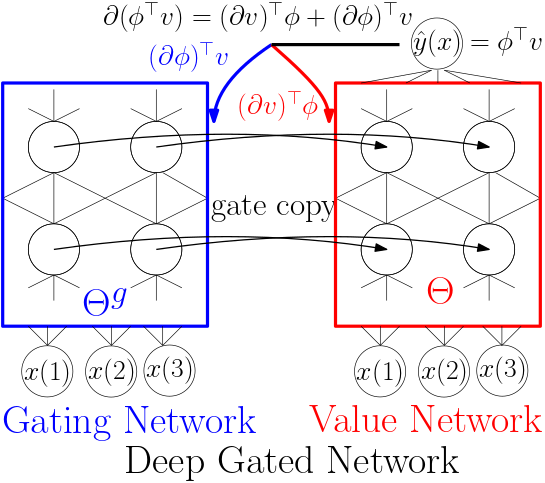
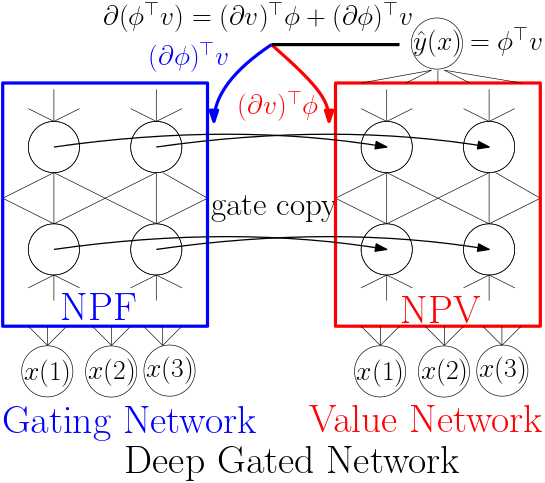
latest

Changed region(s): [[0.7486, 0.559, 0.8734, 0.6832], [0.1248, 0.5901, 0.2495, 0.6832]]

diff --git a/pathgate.tex b/pathgate.tex
@@ -1,5 +1,44 @@
-\section{Deep Gated Networks (DGN): Information Flow}\label{sec:pathgate}
-In what follows, we denote the dataset by $(x_s,y_s)_{s=1}^n\in\R^{d_{in}}\times \R$. A DGN is given by:
+\section{Path-View}\label{sec:pathgate}
+\textbf{Notation:} We consider fully connected deep networks with $d$ layers, and $w$ hidden units per layer, which accepts an input $x\in\R^{d_{in}}$, and produces an output $\hat{y}_{t}\in \R$. We denote by $\Theta(l,i,j)$ to be the weight connecting the $i^{th}$ hidden unit of layer $l-1$ to the $j^{th}$ hidden unit of layer $l$, and we use $G_{x,t}(l,i)$ be the gating value ($0/1$) of the $i^{th}$ hidden unit in layer $l$ for an input $x\in \R^{d_{in}}$.\\
+\textbf{Paths:}  We have a total of $P=d_{in}w^{(d-1)}$ paths. Let us say that an enumeration of the paths is given by $[P]=\{1,\ldots,P\}$. Let $\I_{l}\colon [P]\ra [w],l=0,\ldots,d-1$ provide the index of the hidden unit through which a path $p$ passes in layer $l$ (with the convention that $\I_d(p)=1,\forall p\in [P]$). The activity of a path $p$ for an input $x\in \R^{d_{in}}$ by $A_{t}(x,p)\stackrel{def}{=}\Pi_{l=1}^{d-1} G_{x,t}(l,\I_l(p))$.\\
+\textbf{Neural Path Feature (NPF)} of an input example $x\in \R^{d_{in}}$ is given by \begin{align}\label{eq:npf}\phi_{x,t}=(x_s(\I_0(p))A_t(x_s,p) ,p\in[P])\in\R^P,\end{align} where, for a path $p$, $\I_0(p)$ is the input node at which the path starts, and $A_t(x_s,p)$ is its activity. %By arranging the NPF of the $n$ input examples in a matrix $\Phi_t=(\phi_{x_s,\G_t},s\in[n])\in\R^{P\times n}$, we can express 
+\textbf{Neural Path Value (NPF)} is given by \begin{align}\label{eq:nfv}v_{t}=(\Pi_{l=1}^d \Theta_t(l,\I_{l-1}(p),\I_l(p)),p\in[P])\in\R^P\end{align}
+The zeroth and first-order terms of a DNN can be written as:
+\begin{align}
+\label{eq:zero}\text{(Zeroth-Order)}\quad: \quad \hat{y}_t(x)&=\ip{\phi_{x,t},v_t}=\sum_{p\in [P]}x(\I(p))A_t(x,p)v_t(p)\\
+\label{eq:first}\text{(First-Order)}\quad: \quad \partial \hat{y}_t(x)&=\underbrace{\ip{\phi_{x,t},\partial v_t}}_{\text{value gradient}}+ \underbrace{\ip{\partial\phi_{x,t},v_t}}_{\text{feature gradient}}\\&=\sum_{p\in [P]}x(\I(p)) A_t(x,p) \partial(v_t(p))+\sum_{p\in [P]}x(\I(p)) \partial(A_t(x,p)) v_t(p)\nn
+\end{align}
+\subsection{Information Flow: Zeroth-Order}
+$1.$ \textbf{Representational Power:} The ability of DNNs to fit data has been demonstrated in the past. \cite{ben} showed that DNNs can fit even random labels, and random pixels of standard datasets such as MNIST. However, we note that, for standard DNNs with ReLU gates, with no bias parameters, a dataset with $n=2$ points namely $(x,1)$ and $(2x,-1)$ for some $x\in \R^{d_{in}}$ cannot be memorised. The reason is that the gating values are the same for both $x$ and $2x$ (for that matter any positive scaling of $x$), and hence $\phi_{2x,\G_t }= 2\phi_{x,\G_t }$, and thus it not possible to fit arbitrary values for $\hat{y}_t(x)$ and $\hat{y}_t(2x)$.\\
+$2.$ \textbf{Translation Invariance:} Consider a convolution network using $l$ layers of circular convolutions\footnote{Here, instead of zero-padding in the corners, we follow the convention that index $d_{in}+k$ will be interpreted as $k$, for $k>0$, and $-k$ will be interpreted as $d_{in}-k$.} with filter size $k'<d_{in}$ and unit stride, and let $x^l(i)$ be the output of the $i^{th}$ channel after either $\max$-/global-average-pooling. Looking at the third and fourth (from left) illustrations in \Cref{fig:cartoon}, it is easy to check the translation invariance property: each of the red, blue, green lines have the same path values due to weight sharing in the convolutional layers, this leads to a circular symmetry in the path values, due to which, a translation in the input will cause all the internal variable to translate, and final invariance results from the invariance of the $\max$/average operation.\\
+$3.$ \textbf{Active Sub-Network:} At any time $t$, for each input example, a set of gates are \emph{on} in each layer, and this gives rise to the sub-network of active paths for that input. Thus the active sub-network can be said to hold the memory for a given input. It easy to check that the \emph{neural path kernel} NPK associated with the NPF satisfies the property $H_t=\Sigma\odot \lambda_t$, where $\Sigma$ is the $n\times n$ input Gram matrix, $\odot$ is the \emph{Hadamard} product, and $\lambda_t(s,s')\stackrel{def}{=}\sum_{p\rsa i} A_t(x_s,p) A_t(x_{s'},p)$ is the overlap of the sub-networks that are active for both input examples $s,s'\in[n]$.
+\begin{figure*}[t]
+%\begin{minipage}{0.78\columnwidth}
+\resizebox{\columnwidth}{!}{
+\begin{tabular}{ccc}
+\includegraphics[scale=0.5]{figs/nn.png}
+\includegraphics[scale=0.5]{figs/nnsoft.png}
+\includegraphics[scale=0.5]{figs/nnconv.png}
+\includegraphics[scale=0.5]{figs/nntwin-blck.png}
+%\includegraphics[scale=0.5]{figs/nn.png}
+%\includegraphics[scale=0.5]{figs/nn.png}
+\end{tabular}
+}
+%\end{minipage}
+%\begin{minipage}{0.18\columnwidth}
+%\resizebox{\columnwidth}{!}{
+%\includegraphics[scale=0.5]{figs/nnconv.png}
+%}
+%\end{minipage}
+\caption{Cartoon illustration of usefulness of path-view and DGN framework.}
+\label{fig:cartoon}
+\end{figure*}
+\subsection{Information Flow: First-Order}
+$1.$ \textbf{Value Gradient} $\ip{\phi_{x,t},\partial v_t}$ (see \eqref{eq:zero}) flows through the active sub-network. To see this, $\ip{\phi_{x,t},\partial v_t}=\sum_{p\in[P]}x(\I_0(p))A(x,p)\partial v$, i.e., only paths $p$ with $A(x,p)=1$ contribute to the summation and the derivate $\partial v(p)$ is non-zero only for those weights through which the path $p$ passes.\\
+$2.$ \textbf{Feature Gradient and fixing the ReLU artefact:} The \emph{feature derivative} given by $\ip{\partial\phi_{x,t},v_t}=\sum_{p\in [P]}x(\I(p)) \partial(A_t(x,p)) v_t(p)$. Note that, in the case of ReLU activations the gating values are either $0$ or $1$, and hence $\partial(A_t(x,p))=0$. However, the gating values and hence the path activities $A_t(\cdot,\cdot)$ changes during training. This artefact arising due to non-differentiability can be fixed by considering a \emph{soft-ReLU} activation, where, for a pre-activation input $q\in\R$ the output is given by $q\frac{1}{1+\exp(-\beta q)}$ as opposed to $q\mathbbm{1}_{\{q>0\}}$ of the ReLU. Soft-ReLU enables us to capture the terms related to feature learning in our analysis. The difference between hard and soft gates can be seen in the first two illustrations in \Cref{fig:cartoon}, where negative/positive values lead to $0/1$ in the case of hard gating, and close to $0/1$ in the case of soft-gating.\\
+$3.$ \textbf{Sensitive Sub-Network:} At any time $t$, for each input example, the set of paths for which $\partial A(x,p)$ is significant, form the sensitive sub-network for that input. It is easy to check in a DNN with soft-ReLU, that an active path $p$ whose gating values are close to $1$ is not sensitive, because, $\partial A(x,p)$ will be close to $0$. Thus, the active sub-network and sensitive sub-network are non-overlapping, as shown in the first two illustrations of \Cref{fig:cartoon}, where the red active path is insensitive and the blue inactive path is sensitive. The active paths are responsible for holding the memory of a given input and the sensitive paths are the ones which contains gates whose gating values can go towards $1/0$ depending on flow of feature gradient. In the case, of ReLU gates, sensitive paths are those which involve gates whose pre-activation inputs are close to $0$, and are in the verge of either turning \emph{on/off} depending on gradient flow.
+\subsection{Deep Gated Network (DGN)}
+The NPFs are zeroth-order features stored solely in the gates of a DNN. In this paper, we separate out the NPFs from the NPVs. To this end, we introduce the deep gated network (DGN) framework, wherein, the output of a hidden unit is obtained as a product of its pre-activation and a gating value. A DGN has two network namely i) the gating network which holds the gating values and hence the NPF, and ii) a value network which holds the NPVs. %We denote a DNG by $\N(\Theta_t;\G(\Tg_t,\beta)$ or simply $\N(\Theta_t;\Tg_t,\beta)$
 \FloatBarrier
 \begin{table}[h]
 \begin{minipage}{0.5\columnwidth}
@@ -25,39 +64,6 @@ Gating Values& $\begin{aligned}\G_t\stackrel{def}=\{G_{x_{s},t}(l,i), \forall s\
 \end{tabular}
 }
 \end{minipage}
-\caption{Here $\Theta(l,i,j)$ denotes the weight connecting node $i$ of layer $l-1$ to node $j$ of layer $l$, and $\odot$ stands for the \emph{Hadamard} product. $q(l),z(l)$ and $G(l)$ are $w$-dimensional quantities. The left table shows the gating network, and the right table shows the value network.  At time $t$, by specifying the gating values for all the $n$ input examples as $\G_t\stackrel{def}=\{G_{x_{s},t}(l,i), \forall s\in[n],l\in[d-1],i\in[w]\}$, we can recover the outputs $\hat{y}_t(x_s)\in \R$ for all the inputs $\{x_s\}_{s=1}^n$ in the dataset. We denote a DNG by $\N(\Theta_t;\G(\Tg_t,\beta)$ or simply $\N(\Theta_t;\Tg_t,\beta)$.}
+\caption{$q(l),z(l)$ and $G(l)$ are $w$-dimensional quantities. At time $t$, by specifying the gating values for all the $n$ input examples as $\G_t\stackrel{def}=\{G_{x_{s},t}(l,i), \forall s\in[n],l\in[d-1],i\in[w]\}$, we can recover the outputs $\hat{y}_t(x_s)\in \R$ for all the inputs $\{x_s\}_{s=1}^n$ in the dataset.}
 \label{tb:dgn}
 \end{table}
-We consider fully connected deep networks with $d$ layers, and $w$ hidden units per layer. We have a total of $P=d_{in}w^{(d-1)}$ paths. Let us say that an enumeration of the paths is given by $[P]=\{1,\ldots,P\}$. Let $\I_{l}\colon [P]\ra [w],l=0,\ldots,d-1$ provide the index of the hidden unit through which a path $p$ passes in layer $l$ (with the convention that $\I_d(p)=1,\forall p\in [P]$). We can then define: i) the value of a path $p$ by $v_t(p)\stackrel{def}=\Pi_{l=1}^d \Theta_t(l,\I_{l-1}(p),\I_l(p))$ and ii) the activity of a path $p$ for an input $x_s\in \R^{d_{in}}$ by $A_{t}(x,p)\stackrel{def}{=}\Pi_{l=1}^{d-1} G_{x_s,t}(l,\I_l(p))$.\\
- The \emph{neural path feature (NPF)} of an input example $x_s\in \R^{d_{in}}$ is given by $\phi_{x_s,\G_t}=(x_s(\I_0(p))A_t(x_s,p) ,p\in[P])\in\R^P$. Here, for a path $p$, $\I_0(p)$ is the input node at which the path starts, and $A_t(x_s,p)$ is its activity. By arranging the NPF of the $n$ input examples in a matrix $\Phi_t=(\phi_{x_s,\G_t},s\in[n])\in\R^{P\times n}$, we can express the predicted output of a DGN as: 
-\begin{align}\label{eq:npfbasic}
-\hat{y}_t=\Phi_t^\top v_t,
-\end{align}
-where, the value of the path $v_t$ is the equivalent of the so called \emph{weight-vector} in a standard linear approximation. The \emph{neural path kernel} (NPK) matrix is defined as $H_t\stackrel{def}=\Phi^\top_t\Phi_t$. The information flow in a DGN has the following interesting properties.\\
-\begin{figure*}[t]
-%\begin{minipage}{0.78\columnwidth}
-\resizebox{\columnwidth}{!}{
-\begin{tabular}{ccc}
-\includegraphics[scale=0.5]{figs/nn.png}
-\includegraphics[scale=0.5]{figs/nnsoft.png}
-\includegraphics[scale=0.5]{figs/nntwin-blck.png}
-\includegraphics[scale=0.5]{figs/nnconv.png}
-%\includegraphics[scale=0.5]{figs/nn.png}
-%\includegraphics[scale=0.5]{figs/nn.png}
-\end{tabular}
-}
-%\end{minipage}
-%\begin{minipage}{0.18\columnwidth}
-%\resizebox{\columnwidth}{!}{
-%\includegraphics[scale=0.5]{figs/nnconv.png}
-%}
-%\end{minipage}
-\caption{Cartoon illustration of usefulness of path-view and DGN framework.}
-\label{fig:cartoon}
-\end{figure*}
-$1.$ \textbf{Representational Power:} The ability of DNNs to fit data has been demonstrated in the past. \cite{ben} showed that DNNs can fit even random labels, and random pixels of standard datasets such as MNIST. However, we note that, for standard DNNs with ReLU gates, with no bias parameters, a dataset with $n=2$ points namely $(x,1)$ and $(2x,-1)$ for some $x\in \R^{d_{in}}$ cannot be memorised. The reason is that the gating values are the same for both $x$ and $2x$ (for that matter any positive scaling of $x$), and hence $\phi_{2x,\G_t }= 2\phi_{x,\G_t }$, and thus it not possible to fit arbitrary values for $\hat{y}_t(x)$ and $\hat{y}_t(2x)$.\\
-$2.$ \textbf{Translation Invariance:} Consider a convolution network using $l$ layers of circular convolutions\footnote{Here, instead of zero-padding in the corners, we follow the convention that index $d_{in}+k$ will be interpreted as $k$, for $k>0$, and $-k$ will be interpreted as $d_{in}-k$.} with filter size $k'<d_{in}$ and unit stride, and let $x^l(i)$ be the output of the $i^{th}$ channel after either $\max$-/global average-pooling. Looking at the right most illustration in \Cref{fig:cartoon}, it is easy to check translation invariance property: the red, blue, green lines illustrate that circular symmetry in the path values, due to which, a translation in the input will cause all the internal variable to translate, and final invariance results from the invariance of the $\max$/average operation.\\
-$3.$ \textbf{Twin Gradients:} The derivate of the output $\partial \hat{y}$ has two components, i) the \emph{value derivative} given by $(\partial v)^\top \phi$ and ii) the \emph{feature derivative} given by $(\partial \phi)^\top v$. The value gradient flows through the value network and the feature gradient flows through the gating network. Note that, in the case when value and feature network are identical, i.e., $\Tg=\Theta$, both gradients flow through the same network. \\
-$4.$ \textbf{Hard Gate/ReLU artefact:} Note that when the gating values belong to $\{0,1\}$ (as with the case of ReLU activations), the feature derivative given by $(\partial \phi)^\top v =\sum_{p\in[P]}x(\I_0(p))\partial A(x,p) v(p)$ is $0$. However, in a network with ReLU activations the gating values and hence the path activities $A_t(\cdot,\cdot)$ changes during training. We fix this artefact arising due to non-differentiability by considering \emph{soft-gates}, see the $\beta>0$ case in \Cref{tb:dgn}. The difference between hard and soft gates can be seen in the first two illustrations in \Cref{fig:cartoon}, where negative/positive values lead to $0/1$ in the case of hard gating, and close to $0/1$ in the case of soft-gating.\\
-$5.$ \textbf{Active/Sensitive sub-networks:} The value derivative/gradient flows through the set active paths. To see this, note that $(\partial v)^\top \phi=\sum_{p\in[P]}x(\I_0(p))A(x,p)\partial v$, i.e., only paths $p$ with $A(x,p)$ close to $1$ contribute to the summation. The feature derivative/gradient flows through the set of sensitive paths. To see this, note that $(\partial \phi)^\top v =\sum_{p\in[P]}x(\I_0(p))\partial A(x,p) v(p)$, and $\partial A(x,p)$ is close to $0$ for paths which have all its gating values close to $1$. Note that the active sub-network and sensitive sub-network are non-overlapping, as shown in the first two illustrations of \Cref{fig:cartoon}, where the red active path is insensitive and the blue inactive path is sensitive. The active paths are responsible for holding the memory of a given input and the sensitive paths are the ones which contains gates whose gating values can go towards $1/0$ depending on flow of feature gradient.\\
-$6.$ \textbf{Correlation of active sub-networks:} It easy to check that the NPK $H_t=\Sigma\odot \lambda_t$, where $\Sigma$ is the $n\times n$ input Gram matrix, $\odot$ is the \emph{Hadamard} product, and $\lambda_t(s,s')\stackrel{def}{=}\sum_{p\rsa i} A_t(x_s,p) A_t(x_{s'},p)$ is the overlap of the sub-networks that are active for both input examples $s,s'\in[n]$. \\

diff --git a/intro.tex b/intro.tex
@@ -1,13 +1,13 @@
 \section{Introduction}
 Understanding optimisation and generalisation in deep neural networks (DNNs) trained using first-order method such as gradient descent (GD) is an important problem in machine learning. Some of the recent works on this problem have made use of the \emph{neural tangent features} (NTFs) and the \emph{trajectory} based analysis. The NTF of an input $x\in \R^{d_{in}}$ is defined as $\psi_{x,t}=\left(\frac{\partial \hat{y}_{\Theta}(x)}{\partial \theta}|_{\Theta=\Theta_t},\theta \in \Theta\right)\in \R^{d_{net}}$, i.e., as the gradient of the network output $\hat{y}_{\Theta}(x)$ with respect to its weights $\Theta\inrdnet$. Since the NTF is a first-order term, it can be used to linearise the DNN output about $\Theta_t$. Associated with the NTF is a \emph{neural tangent kernel} (NTK), which is given by $K_t(x,x')=\ip{\psi_{x,t},\psi_{x',t}}$\footnote{For $x,y\in\R^d \ip{x,y}=x^\top y$.}, where $x,x'\in\R^{d_{in}}$ are inputs to the DNN. In the \emph{trajectory} based analysis, one looks at the dynamics of error $e_t$  (i.e., difference between predicted and true values) at time $t$. For a small step-size $\alpha_t>0$ of the GD procedure, the error dynamics follows a recursion given by: $e_{t+1}=e_t-\alpha_tK_te_t$, where $K_t$ is the NTK matrix obtained on the the dataset. It is known from \cite{dudnn}, that, gradient descent achieves zero training loss in over-parameterised DNNs, and from \cite{cao2019generalization}, that, the NTK at initialisation can be used to bound the generalisation performance.\\
+\textbf{Question:} What are the hidden features in a DNN? Are these features learned? and if so, how?\\
+Based on the prior works using NTFs and NTK, the answer to the above question is negative, because, the DNNs are only linear learners with the NTFs at random initialisation, and hence no feature learning happens. In this paper, we answer the question in the affirmative by identifying a novel \emph{neural path feature} (NPF), which is a zeroth-order feature, and showing via theory and experiments that NPFs are learnt during training. The key step are:\\
+$1.$  (\Cref{sec:pathgate}) We take the `path-view', i.e., we regard the DNN to be made of paths and gates. Using the `path-view', at time $t$, for an input $x\in \R^{d_{in}}$, we identify \emph{neural path features} (NPF) $\phi_{x,t}\in \R^P$\footnote{$P$ is the total number of paths.}, which is zeroth-order feature based on the information in the gates of a DNN and \emph{neural path values} (NPV), $v_t\in\R^P$, which is based only on the weights. The output is represented as $\hat{y}_t=\ip{\phi_{x,t},v_t}$. Associate with the NPF is the NPK, which is defined for inputs $x,x'\in\R^{d_{in}}$ to be $H_t(x,x')=\ip{\phi_{x,t},\phi_{x',t}}$.\\
+$2.$(\Cref{sec:pathgate}) We then introduce the deep gated networks (DGN) framework, wherein, the gating values and hence the NPFs are held in a gating network and the NPVs are held in a value network (which is different from the gating network). The DGN framework enables us to study optimisation and generalisation properties of NPFs.\\
+$3.$ (\Cref{sec:optimisation}-\Cref{th:main}) We show that for fixed NPFs, and appropriate random initialisation of weights of the value network, in the limit of infinite width $K_0\ra CH_0$ ($C>0$ is a scaling constant). Using the property of $H_0$ we conclude that for infinitely large width, increasing depth helps in training performance, and for finite widths, increasing depth beyond a point hurts training performance due to the variance in entries of $K_0$.\\
+$4.$ (\Cref{sec:generalisation}) We show that NPFs obtained from a pre-trained gating network is generalises better than NPFs from a randomly initialised gating network. This implies that the NPFs are learned during training. Since \Cref{th:main} allows us to use $H_0$ in the place of $K_0$ in the generalisation bounds \cite{cao2019generalization}, we verify that the norm of the labelling function measured with respect to the inverse of the trace normalised NPK reduces with time.\\
+$5.$ (\Cref{sec:featlearn}) The derivative of the output $\partial \hat{y}$ has two components i) a \emph{value derivative} term $\ip{\phi,\partial v}$ which learns path values with fixed NPFs and ii) a \emph{feature derivative} term $\ip{\partial \phi,v}$ which learns the features themselves. We provide a simple example and preliminary theory to show how NPFs are learnt.
 \begin{comment}
- the following questions still remain unresolved \hfill\\
-\textbf{Question I (Optimisation):} \emph{What is the role of width and depth in training of DNNs? Why increasing depth till a point helps in training? Why increasing the depth beyond hurts training?}\\
-The results by \cite{dudnn} only throw light on why ResNets could be better than fully connected DNNs. The above question in relation to fully connected networks is still unresolved.\\
-\textbf{Question II (Generalisation):} \emph{What are the hidden features in a DNN? Are these features learned? and if so, how?} \hfill\\
-There are couple of unresolved issues in prior work by \cite{arora2019exact,cao2019generalization}. Firstly, if the DNNs are only linear learners with random NTFs, then it means that, no feature learning happens in DNNs. Secondly, it was observed in prior experiments, that, the DNNs perform better than their corresponding NTK counterparts \cite{arora2019exact,lee2019wide}. \hfill\\
-\end{comment}
-\textbf{Our Contributions:} We now list the key ideas and results in this paper.\\
 $1.$ \textbf{Deep Gated Networks (DGNs):} Here, the output of a single hidden neuron is obtained as a product of its pre-activation input ($\in \R$) and a gating value ($\in [0,1]$ ). The DGNs we consider consists of two networks i) a value network which holds the pre-activation input, layer output and layer weights $\Theta\in \R^{d_{net}}$, and the final output, and ii) a separate gating network (with its own internal pre-activation inputs, layer output, and layer weights $\Tg\in \R^{d_{net}}$), which provides the gating values. 
 DNN with ReLU activation is a special case, wherein, the value network and gating network are \emph{coupled} i.e., $\Theta=\Tg$.\\
 $2.$ \textbf{Neural Path Feature and Kernel (NPF and NPK):} We express the output as the sum total of the contributions from various paths. A \emph{path} starts from an input node, passes through exactly one weight and one activation in each layer, and finally ends at the output node. Let $[P]=\{1,\ldots,P\}$ be an enumeration of all the paths, then the contribution of a path in a DGN is the product of the signal at the input node, all the gating values of the hidden neurons and all the weight through which it passes. At time $t$, and for an input $x\in\R^{d_{in}}$,  the output of a DGN is recovered as $\hat{y}_t(x)=\ip{\phi_{x,t},v_t}$, where $\phi_{x,t}\in \R^P$ is the \emph{neural path feature} (NPF). Here, for a path $p\in[P]$, $\phi_{x,t}(p)$ holds the product of the signal at its input node and all its gating values, and  $v_t=(v_t(p),p\in[P])\in\R^P$, with $v_t(p)$ holding the product of the weights in path $p$. The associated \emph{neural path kernel} (NPK) matrix $H_t$ has a special \emph{Hadamard} structure, i.e., $H_t=\Sigma \odot \lambda_t$, where $\Sigma$ is the data \emph{Gram matrix}, $\lambda_t(x,x')$ measure the overlap of active sub-networks for inputs $x,x'\in\R^{d_{in}}$, and $\odot$ is the Hadamard product.\\
@@ -15,7 +15,7 @@ $3.$ \textbf{Gate Copying:} Contrary to NTK based works \cite{jacot18,jacot19,ca
 $4.$ \textbf{Optimisation:} We consider DGN training in the fixed gating regime, where, the NPFs in the gating network are kept fixed through training, and only the path values are trained. When the weights are initialised statistically independent of the NPFs, we show, in \Cref{th:main}, that as width approaches $\infty$, $K_0\ra C H_0$ (for a constant $C>0$). This result implies that in the limit of infinite width, increasing depth leads to whitening of $\lambda_0$ and thus helps in training, and for finite width increasing depth beyond a point hurts training variance in entries of $K_0$ which depend on $d$. \\
 $5.$ \textbf{Generalisation:}  We show (on MNIST and CIFAR datasets) that DGN trained with fixed NPFs obtained from a pre-trained gating network generalise better than DGNs trained with fixed NPFs obtained from a randomly initialised gating network. We verify that (experimentally with a `Binary'-MNIST dataset) that the norm of the label function measured with respect to the normalised NPK matrix reduces during training. We note that using \Cref{th:main} to replace $K_0$ with $H_0$ in the generalisation bounds of \cite{cao2019generalization}, would provide the theoretical justification of why NPFs from pre-trained gating networks generalise better.\\
 $6.$ \textbf{Feature Learning:} The gradient $\partial \hat{y}$ has two components i) a \emph{value gradient} term $(\partial v)^\top \phi$ which learns path values with fixed NPFs and ii) a \emph{feature gradient} term $(\partial \phi)^\top v$ which learns the features themselves. The value gradient flows through the sub-network of \emph{active} paths, and the feature gradient flows the sub-network of \emph{sensitive} paths which contain gates that are in the verge of switching \emph{on/off}. In particular, when $\Tg$ and $\Theta$ are initialised statistically independent of each other, we show that $\E{K_0}=(C\Sigma\odot\lambda_0+C'\Sigma\odot\delta_0)$, where $\delta_0(x,x')$ is a measure of overlap of sensitive sub-networks for inputs $x,x'\in\R^{d_{in}}$.
-
+\end{comment}
 \begin{comment}
 Say $[P]=\{1,\ldots,P\}$ be an enumeration of the paths, 
 $1.$ At time $t$, for an input $x\in\R^{d_{in}}$, we define a novel (zeroth-order) \emph{neural path feature} (NPF) $\phi_{x,t}\in \R^P$, where $P$ is the total number of paths, and for a path $p$, $\phi_{x,t}(p),\p\in[P]$\footnote{$[P]=\{1,\ldots,P\}$} is equal to the product of the signal at its input node and its activity. The output can be written as $\hat{y}_t(x)={\phi^\top_{x,t}} v_t$, where $v_t=(v_t(p),p\in[P])\in\R^P$ is the vector of path values with $v_t(p)$ given by the product of the weights in the path.\\

diff --git a/optimisation.tex b/optimisation.tex
@@ -1,27 +1,19 @@
-\section{Neural Path Feature: Optimisation and Generalisation}
-The neural path features capture the information stored in the gates of a deep network. To this end, we study DGNs with fixed gates, i.e., $\G_t=\G_0,\,\forall\,t\geq 0$, or in the case of parameterisation $\Tg_t=\Tg_0,\,\forall\,t\geq 0$. Since the gates (and hence the NPFs) are fixed, the output of the DGN is given by 
-\begin{align}\label{eq:fixednpf}
-\hat{y}_t=\Phi^\top_0 v_t
-\end{align}
-Thus, training the DGN with GD boils down to learning the path values $v_t$. 
-\begin{lemma}\label{lm:disentangle}[Path Disentanglement] Let $I_P$ be the $P\times P$ identity matrix, and let $\nabla_\Theta v_t$ be a $P\times d_{net}$ matrix, with $\nabla_\Theta v_t(p,\theta)=\frac{\partial v_{\Theta}}{\partial \theta}|_{\Theta=\Theta_t}$. Then, 
-under \Cref{assmp:main}-(ii), it follows that $\E{(\nabla_{\Theta}v_{\Theta_0})(\nabla_{\Theta}v_{\Theta_0})^\top }= d\sigma^{2(d-1)}I_{P}$.
-\end{lemma}
-
-$\bullet$ \textbf{Neural Tangent Kernel (NTK):} When the gates are fixed, it trivially follows that $A_t(\cdot,\cdot)=A_0(\cdot,\cdot),\,\forall\,t\geq 0$, and hence $\partial_{\tg} A_t(\cdot,\cdot)=0$. Thus, the feature gradient, $\psi^{\phi}_{x_s,t}=0$, and for the given dataset of $n$ points, it is enough to look the value gradient matrix $\Psi^v_t=(\nabla_{\Theta}v_{\Theta_t})^\top \Phi_{\Tg_t}$. The expression for the NTK matrix is given by:
-\begin{align}\label{eq:kt}
-K_t={\Psi^v}^\top_t\Psi^v_t= \Phi^\top_0(\nabla_{\Theta}v_{\Theta_t})(\nabla_{\Theta}v_{\Theta_t})^\top \Phi_0
-\end{align}
-$\bullet$ \textbf{Simplifying $K_t$:} Note that \Cref{assmp:main} does not directly hold for DNNs with ReLU activations. The reason is that conditioned on the fact that a particular ReLU is \emph{on}, we know that its incoming weights cannot all be simultaneously negative. However, this situation can be remedied by obtaining the NPFs from a gating network parameterised by $\Tg\inrdnet$.  \Cref{assmp:main} can be then satisfied by sampling $\Tg_0\inrdnet$ and $\Theta_0\inrdnet$ independently. Using \Cref{assmp:main}-(i), we have $\E{K_0}=\Phi^\top_0\E{(\nabla_{\Theta}v_{\Theta_0})(\nabla_{\Theta}v_{\Theta_0})^\top}\Phi_0$, and we need the following lemma to complete part of the result in \Cref{th:main}. Intuitively speaking, the active sub-networks corresponding to different examples have some overlap, and hence there is bound to be \emph{cross-talk} of the gradients flowing through them, and under \Cref{assmp:main}, this cross talk gets cancelled as in \Cref{lm:disentangle} resulting in \Cref{th:main}.
+\section{Optimisation}\label{sec:optimisation}
+In this section, we study optimisation with fixed NPFs, i.e., a setting in which $\ip{\partial \phi,v}=0$. Here, we are interested in learning: $\hat{y}_t(x)=\ip{\phi_{x,0}, v_t}$, which boils down to learning the NPVs $v_t$. To this end, we use the DGN framework, wherein, the gating network provides the fixed NPFs and training the value network will learn the NPVs.
+\begin{assumption}\label{assmp:main}
+(i) $\Theta_0\inrdnet$ is statistically independent of NPFs, (ii) $\Theta_0$ are sampled i.i.d from a distribution such that for any $\theta_0\in\Theta_0$,  we have $\E{\theta_0}=0$, and  $\E{\theta^2_0}=\sigma^2$, and $\E{\theta^4_0}={\sigma'}^2$.
+\end{assumption}
+\begin{theorem}[\textbf{Main Result}]\label{th:main} Under \Cref{assmp:main}, we have:\\
+(i) $\E{K_0}=d\sigma^{2(d-1)} H_0=d\sigma^{2(d-1)} (x^\top x)\odot \lambda_0$.\\
+(ii) In addition, if ${4d}/{w^2}<1$, then $Var\left[K_0\right]\leq O\left(d^2_{in}\sigma^{4(d-1)}\max\{d^2w^{2(d-2)+1}, d^3w^{2(d-2)}\}\right)$.
+\end{theorem}
 \begin{comment}
-$\bullet$ \textbf{Active Sub-Network and Gradient Flow:} Each input example has its own associated active sub-network, and the gradient of  a particular example, the gradient flows through the weights of the corresponding active sub-network. Now, the active sub-networks corresponding to different examples have some overlap, and hence there is bound to be \emph{cross-talk} of the gradients flowing through them. Note that the \emph{cross-talk} of the paths appears as the $(\nabla_{\Theta}v_{\Theta_t})(\nabla_{\Theta}v_{\Theta_t})^\top$ in \eqref{eq:kt}, which got simplified due to the \Cref{assmp:main}, leading to \Cref{lm:disentangle} which in turn resulted in \Cref{th:main} (restricted to the case of fixed gates, wherein, $K^{\phi}_t=0$).\\
-\end{comment}
-$\bullet$ \textbf{NTK = NPK:} For $\sigma=O\left(\sqrt{\frac{1}{w}}\right)$, for a fixed depth $d$, as width $w$ increases, $K_0\ra\E{K_0}=d\sigma^{2(d-1)}H_0$. Thus, for random initialisation and large width, the NPK dictates the convergence properties of GD. In particular, the spectrum of $\lambda_0$ directly controls the spectral properties of the NTK matrix $K_0$. We now argue that when $\sigma=\sqrt{\frac{2}{w}}$, increasing depth causes whitening of $\lambda_0$ to resolve the optimisation question, and look at generalisation performance of DNGs trained with different NPFs to resolve the generalisation question.
-
+\begin{lemma}\label{lm:disentangle}[Disentanglement] Let $\nabla_{\Theta} v_t\in \R^{P\times d_{net}}$ be matrix whose entries are given by $\nabla_{\Theta} v_t (p,\theta)=\partial_{\theta}v_t(p),\forall p\in [P], \theta\in\Theta$, and let $I_P$ be the $P\times P$ identity matrix. Then, 
+under \Cref{assmp:main}-(ii), it follows that $\E{\nabla_{\Theta}v_{\Theta_t})(\nabla_{\Theta}v_{\Theta_t})^\top }= d\sigma^{2(d-1)}I_{P}$.
+\end{lemma}
 \begin{comment}
 \textbf{Proof of \Cref{th:main}-(i):} Let $\varphi_t=(\varphi_{p,t},p\in[P])\in \R^{d_{net}\times P}$ matrix, then since $K_t=\Psi^\top_t\Psi$, where $\Psi_t=\varphi_t \Phi_t$, we have $\E{K_t}=\E{\Phi^\top_t \varphi^\top_t \varphi_t \Phi_t}$. At initialisation, using the \Cref{assmp:main}-(i), we can pull out $\Phi^\top_t$ and $\Phi_t$ outside of the expectation to have \begin{align}\label{eq:pullout}\E{K_0}=\Phi^\top_0\E{ \varphi^\top_t \varphi_t }\Phi_0,\end{align} and from \Cref{lm:disentangle}, it follows that $\E{ \varphi^\top_t \varphi_t }=d\sigma^{2(d-1)}I$, and hence $\E{K_0}=d\sigma^{2(d-1)}\Phi^\top_0\Phi_0=d\sigma^{2(d-1)}H_0$.\\
 \end{comment}
-\subsection{Optimisation}
 %This overlap is captured by $\lambda_t(s,s')$ which is the measure of overlap of the sub-networks that are active for both the inputs $x,x'\in\R^{d_{in}}$. Under. \Cref{assmp:main}, the inter-path interaction $\varphi^\top_t\varphi_t$ gets disentangled, result in the claim \Cref{th:main}-(i).\\
 %However, in the later part of this section, we consider a special case, wherein, we give an explicit characterisation of the spectrum of $\E{K_0}$. Characterising $\lambda_0$ for the general case is left as future work.\\
 \textbf{Why increasing depth till a point helps in training? } Let us first look at the diagonal terms of $\lambda_0$. It is reasonable to assume that, owing to the symmetric nature of the weights, roughly $\mu=\frac{1}{2}$ fraction of the gates are \emph{on} every layer. Thus $\lambda_0(s,s)\approx (w/2)^{d-1}$. Now, due our choice of $\sigma=\sqrt{\frac{2}{w}}$, the diagonal entries will be close to $1$. We now turn our attention towards the non-diagonal entries of $\lambda_0$. Define $\tau(s,s',l)\stackrel{def}=\sum_{i=1}^w G_{x_s,t}(l,i)G_{x_{s'},t}(l,i)$ be the overlap of the active gates in layer $l$ for input examples $s,s'\in[n]$, and  let $\eta\stackrel{def}=\max_s\left(\max_{s',l} \frac{\tau(s,s',l)}{\tau(s,s,l)}\right)$ be the maximum overlap between gates of a layer (maximum taken over over input pairs $s,s'\in[n]$ and layers $l\in [d]$).  Then it follows that $\max_{s,s'\in [n]} \frac{\bar{\lambda}_{cross}(s,s')}{\bar{\lambda}_{self}(s)}\leq \eta^{d-1}$. Thus, the non-diagonal entries decay an exponential rate in comparison to the diagonal entries.\hfill\\

diff --git a/abstract.tex b/abstract.tex
@@ -1,4 +1,7 @@
 \begin{abstract}
+Understanding optimisation and generalisation in deep neural networks (DNNs) (with ReLU) trained using first-order method such as gradient descent (GD) is an important problem in machine learning. Recent works on this problem have made use of the \emph{neural tangent feature} (NTF) which is equal to the gradient of the DNN output with respect to its weights, i.e., the feature is based on first-order information. In this paper, we deconstruct the computation in DNNs into paths and gates. This deconstruction yields a novel zeroth-order feature namely the \emph{neural path feature} (NPF), whose dimension is equal to total the number of paths, and whose co-ordinate corresponding to a path is the product of the signal at its input node and its \emph{on/off} state\footnote{A path is \emph{on} if all the gates in the path are \emph{on}.}. We show that when optimising with fixed NPFs using GD i) increasing depth till a point helps in training and ii) increasing depth beyond a point hurts training. While in NTFs based works, DNNs are considered as linear learners with fixed NTF, we show via experiments, that, in DNNs, NPFs are learnt during training, and such learning is key for generalisation. By bringing in zeroth-order information into the picture via NPFs, our work is complementary to prior work based on NTFs.
+\end{abstract}
+\begin{comment}
 We study optimisation and generalisation in deep gated networks (DGNs), wherein, the output of a single hidden neuron is obtained as a product of its pre-activation input and a gating value. DNNs with ReLU activations are special cases of DGNs.  The DGN framework enables us to dismantle deep networks into paths and gates. This dismantling yields a novel (zeroth-order) \emph{neural path feature} (NPF) whose dimension is equal to total the number of paths, and whose co-ordinate corresponding to a path is the product of the signal at its input node and its \emph{on/off} state\footnote{A path is \emph{on} if all the gates in the path are \emph{on}.}. We show that the associated \emph{neural path kernel} (NPK) plays an important role in optimisation and generalisation of DGNs. %In particular, $H_t(x,x')=(x^\top x')\lambda_t(x,x')$, where $\lambda_t(x,x')$ is a count of total number of paths that are active simultaneously for both inputs $x,x'\in \R^{d_{in}}$. \hfill\\
 For randomly initialised DGNs optimising with fixed NPFs, we show that i) increasing depth till a point helps in training and ii) increasing depth beyond hurts training. We verify via experiments that the NPFs are learned during training by showing that the norm of the labelling function measured with respect to the inverse of the trace normalised NPK reduces with time.
-\end{abstract}
+\end{comment}

diff --git a/generalisation.tex b/generalisation.tex
@@ -1,4 +1,4 @@
-\subsection{Generalisation}\label{sec:generalisation}
+\section{Generalisation}\label{sec:generalisation}
 We trained DGN on standard datasets namely MNIST and CIFAR-10, under the following conditions: i) the gates are fixed $\G_t=\G_0,\forall t\geq 0$ and ii) the gating values are obtained from a ReLU network, which acts as the gating network (see \Cref{tb:dgn}). Since, the gates are fixed, the NPFs are fixed and the (stochastic) GD learns only the path values. We compare the performance of $4$ different NPFs, wherein, the gates are copied from i) from a randomly initialised ReLU network (untrained), ii) from a ReLU network trained with good dataset iii) ReLU network trained on random labels and iv) ReLU network trained on random pixels. Note that the DGN with these fixed (gates) NPFs are trained on the standard dataset with good labels. From the results in \Cref{tb:npfs}, we can conclude that NPFs are learnt during training, i.e., NPFs obtained from trained networks perform better than NPFs obtained at random initialisation.\\
 %\FloatBarrier
 \begin{table}[!b]

diff --git a/neurips_2020.tex b/neurips_2020.tex
@@ -53,7 +53,7 @@
 \setcounter{MaxMatrixCols}{32}
 \usepackage{placeins}
 
-\title{Neural Path Features: Optimisation, Generalisation and Representation Learning}
+\title{Neural Path Features: Optimisation, Generalisation and Feature Learning}
 % The \author macro works with any number of authors. There are two commands
 % used to separate the names and addresses of multiple authors: \And and \AND.
 %
